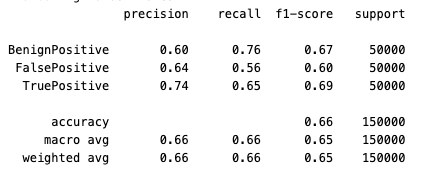
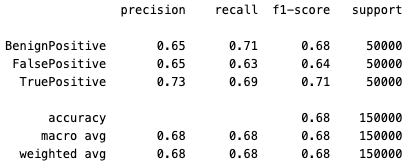
improved comments and next steps and recreated plots

diff --git a/README.md b/README.md
@@ -25,11 +25,11 @@ https://github.com/mgk2014/PCMLAI-CAPSTONE2/blob/main/xdr.ipynb
 
 The following steps were taken to clean the data and engineer new features:
 
-- Choose random sample of equal number of BP, TP and FP samples (50k each) for both train and test data sets, from a 500k sample of the train and test data set. The original distribution is about BP(43%), TP(35%), FP(22%). The stratified data set helped improve the Precision and Recall scores
+- Chose random sample of equal number of BP, TP and FP samples (50k each) for both train and test data sets, from a 500k sample of the train and test data set. The original distribution is about BP(43%), TP(35%), FP(22%). The stratified data set helped improve the Precision and Recall scores
 - Ignored the extra usage feature in the test dataset that was not found in the training (more information is needed to clarify the role of this feature)
 - Deleted the features that had more than 90% values missing: ResourceType, ThreatFamily, EmailClusterId, Roles, AntispamDirection
 - ActionGrouped, ActionGranular are related to action recommendations post the initial triage. Since this analysis is restricted to triage, these features were dropped
-- Timestamp was converted to Timestamp data type. This feature was not immediately use in the analysis, but may be used for forecasting of alerts
+- Timestamp was converted to Timestamp data type. This feature was not immediately used in the analysis, but may be used for forecasting of alerts
 - MitreTechniques feature was abstracted to the high leave Mitre such as T1078 (account access), ignoring the sub MitreTechniques (ex: T1078.001, T1078.002) recorded in the alerts. Sub Mitres may be included in further analysis if Mitre is found to be an important feature in the analsys
 - Geo Features such as Country, State were removed in favor of  City feature since City represented by anonymous code 10630 represeted > 99% of the data 
 
@@ -56,14 +56,14 @@ Majority of are related to IP and user entities
 
 <img src="plots/EntityTypeDistribution.png" alt="Entity Types" width="500">
 
-All numerical features in this dataset represent discrete values. Some of the features appear to be highly correlated for ex: AccountsId, AccountsName, AccountObjectId. This will be removed in the 2nd pass of the analysis
+All numerical features in this dataset represent discrete values. Some of the features appear to be highly correlated for ex: AccountsId, AccountsName, AccountObjectId. This were removed before developing the model
 
 <img src="plots/m_numerical_heatmap.png" alt="Entity Types" width="400">
 
 
 ### Model development
 
-- Ran Logistic Regression, KNN, DecisionTree, SVM, Random Forest and GradientBoosting classifiers with default parameters. LR and SVM executed on smaller data sets but took a long time with the dataset size chosen for this analysis. These classifiers were subsequently removed in the final analysis.
+- Ran Logistic Regression, KNN, DecisionTree, SVM, Random Forest and GradientBoosting classifiers with default parameters. LR and SVM executed on smaller data sets (10k rows) but took a long time (> 9-10 hrs) with the 150K train dataset size chosen for this analysis. With the smaller data sets, SVM, LR did not improve upon the scores of the RF classifier. Subsquently, SVM, RF classifiers were removed in the final analysis.
 
 - For KNN, Dt, RF and Gradient Boosting classifers - Macro Precision, Recall, and F1 scores are recorded in this table
     
@@ -73,17 +73,17 @@ All numerical features in this dataset represent discrete values. Some of the fe
 
 - DecisionTree and RandomForestClassifier registered the highest macro F1 scores. The DecisionTree classifier was the fastest to fit and evaluate. However the default DecisionTree fitted to a depth of 86 indicating over fitting
 
-- Leveraged GridSearchCV to find optimal hyper parameters on DecisionTree and RandomForest classifiers. Random Forest classifier results are shown below (DT results are in the Jupyter notebook)
+- Leveraged GridSearchCV to find optimal hyper parameters on DecisionTree and RandomForest classifiers. RF classifier results are shown below (DT results are in the linked Jupyter notebook)
 
 #### Random Forest Classifier
 
 - Following parameters were used to further train RandomForest model. This resulted in fitting of 250 models
     
-    rf_grid_params = {'n_estimators': [50, 100, 150, 300], 'min_samples_split': [0.1, 0.01, 0.001],'oob_score': [True, False]'max_features': ['sqrt', 'log2'],
+    rf_grid_params = {'n_estimators': [100, 200, 300],'max_depth': [30, 50, 75],'min_samples_split': [5, 10, 15],'class_weight': ['balanced', None]}
 
 - Best parameters returned by GridSearch Cross Validation:
 
-    {'max_features': 'sqrt','min_samples_split': 0.001, 'n_estimators': 50,'oob_score': True}
+    {'class_weight': 'balanced','max_depth': 30,'min_samples_split': 5,'n_estimators': 200}
 
 - Classification report
 
@@ -103,7 +103,7 @@ All numerical features in this dataset represent discrete values. Some of the fe
 
 - Further exploration was done with Randomized Search CV (50 models) and restriction the model to top contributing features. The final Macro F1 scores of these experiments were very similar to results shared here. The details are in the linked Jupyter notebook.
 
-- To help understand the contribution of various features to a single prediction, 'treeinterpreter' and 'waterfall' libraries were used. Here it predicts TP for a single alert by producing three different scores for BP, FP and TP [[0.34563431 0.07359429 0.5807714 ]], thus predicting the majority class
+- To help understand the contribution of various features to a single prediction, 'treeinterpreter' and 'waterfall' libraries were used. Here it predicts TP for a single alert by producing three different scores for BP, FP and TP [[0.18675794 0.03887698 0.77436508]], thus predicting the majority class
 
     <img src="plots/featurecontributionofprediction.png" alt="Top 10 features" width="500">
 
